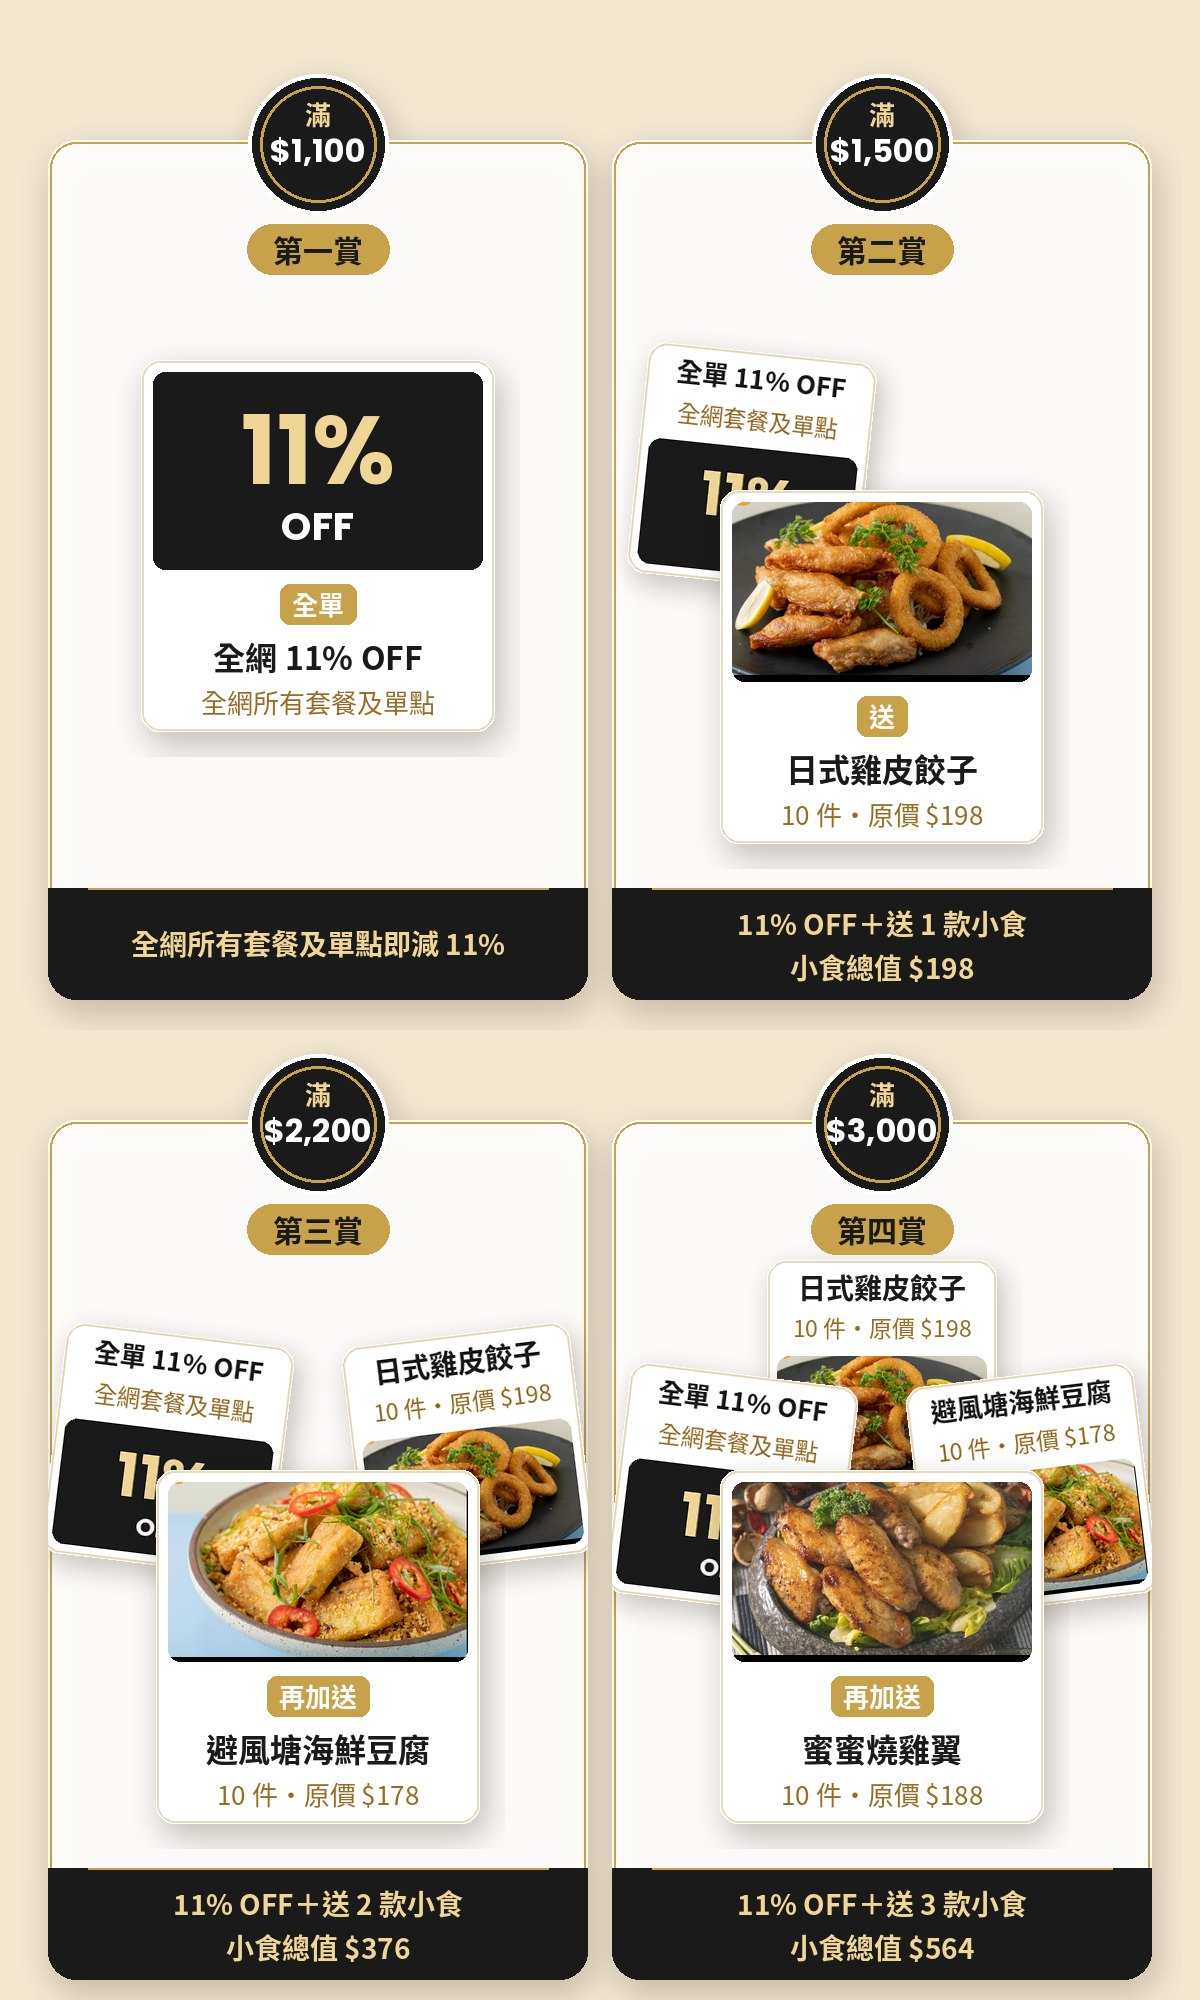
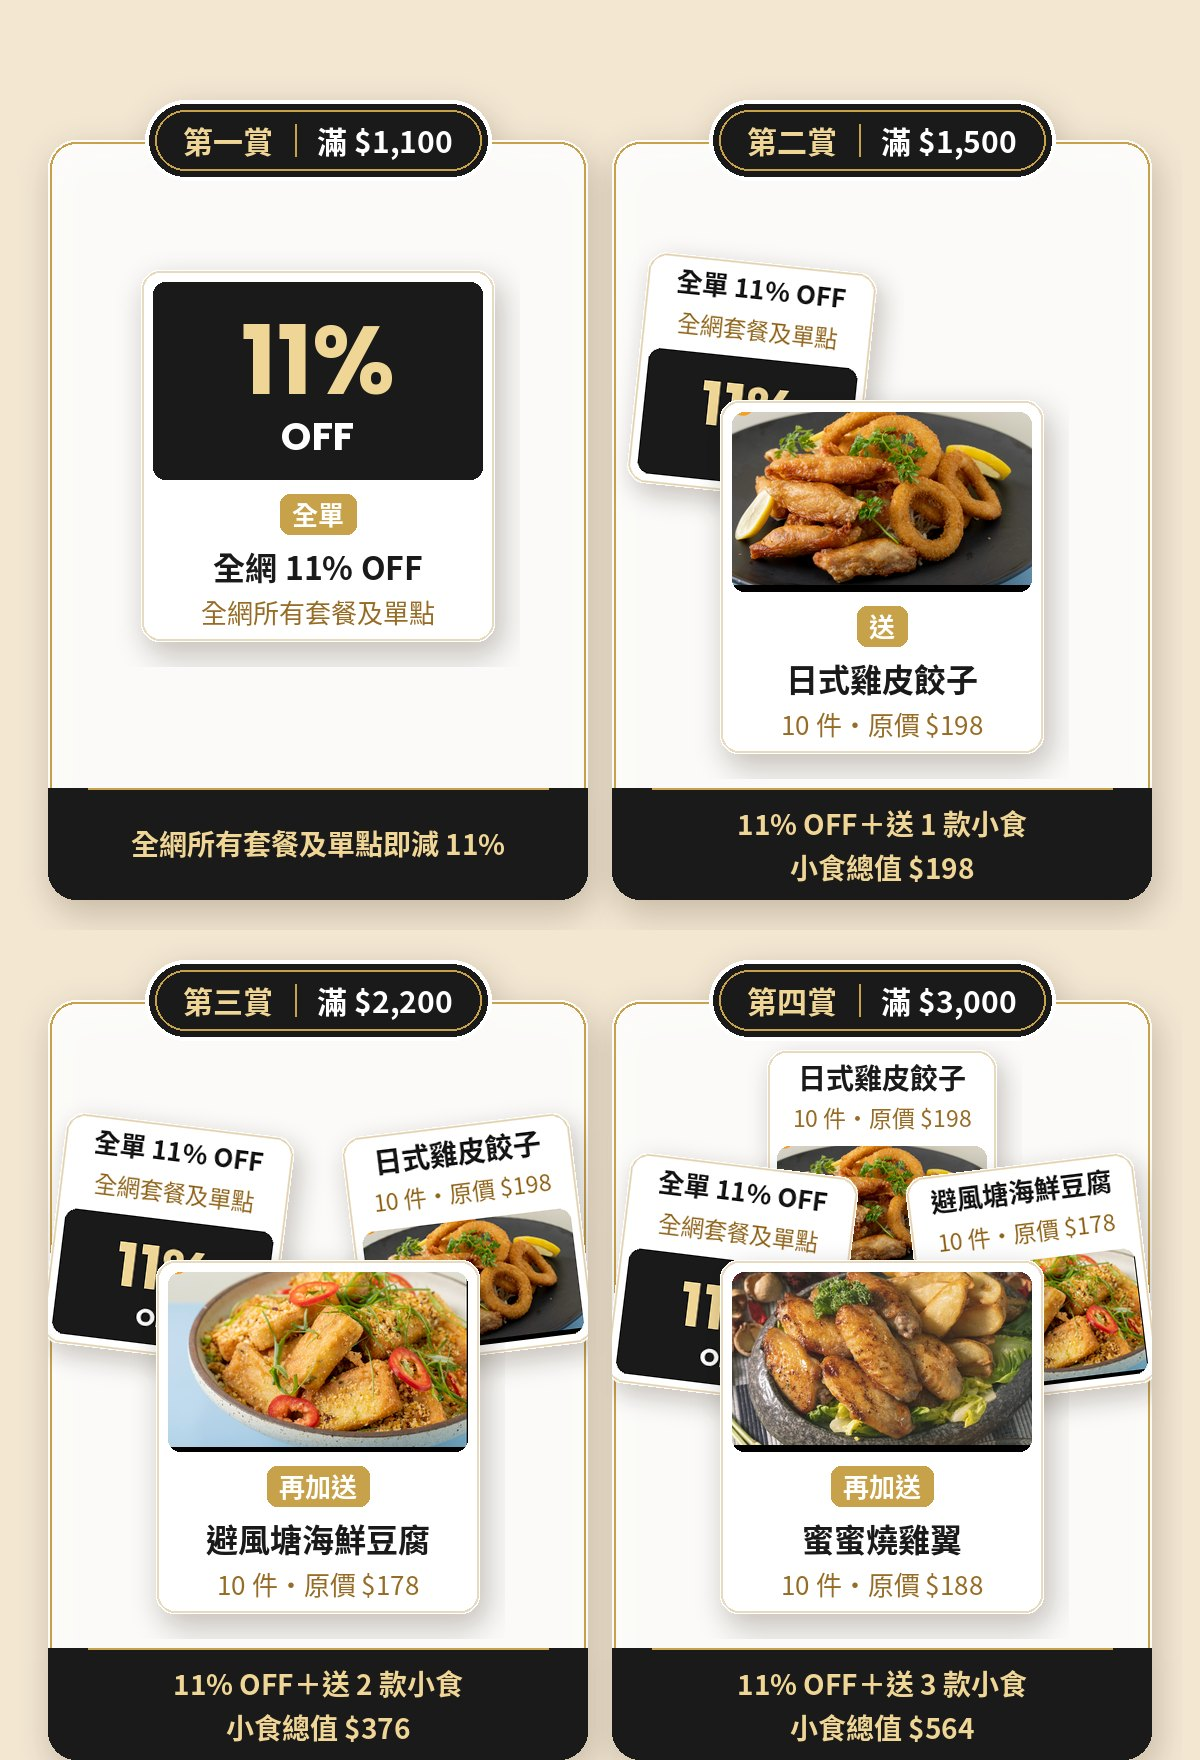
b

Changed region(s): [[0.0308, 0.0312, 0.9558, 1.0]]

diff --git a/1111-2026/make_kv3.py b/1111-2026/make_kv3.py
@@ -179,7 +179,7 @@ TIER = [  # (第幾賞, 金額, 後排, 前卡, 動詞, 總結)
 ]
 BACK_POS = {0: [], 1: [(-130, 0, -6)], 2: [(-150, 0, -7), (150, 0, 7)], 3: [(-150, 40, -7), (0, -60, 0), (150, 40, 7)]}
 PW, PH = 540, 860
-HEAD_STYLE = 'orig'
+HEAD_STYLE = 'A'
 def panel(lv, amt, backs, front, verb, summ):
     PH = {'orig': 860, 'A': 760, 'B': 800}[HEAD_STYLE]
     p = Image.new('RGBA', (PW, PH + 80), (0, 0, 0, 0)); T = 80 if HEAD_STYLE != 'B' else 0
